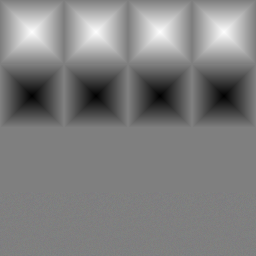
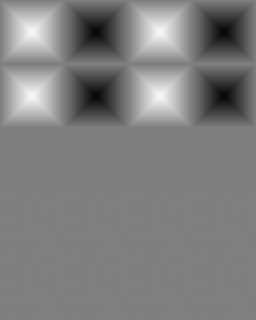
improve scene `patch` + lighting improvements (#15)
* added patch-light scene

* tune + bug fix

* up the steepness a bit

* better lighting

* steeper hills on patch_light

* readme

* readme

* steeper

* patch_light --> patch

* readme

* format

* back to match

* fix if

* format

Changed region(s): [[0.0, 0.0, 1.0, 0.5]]

diff --git a/mujoco_scenes/generate.py b/mujoco_scenes/generate.py
@@ -7,36 +7,43 @@ import numpy as np
 from PIL import Image
 
 
-def generate_patch_texture(patch_type: str, size: int) -> Image.Image:
+def generate_patch_texture(patch_type: str, size: int, col_idx: int = 0, amplitude: float = 1.0) -> Image.Image:
+    if patch_type == "hill-valley":
+        patch_type = "hill" if col_idx % 2 == 0 else "valley"
+
     match patch_type:
         case "rough":
             # Rough: random noise.
-            arr = (np.random.rand(size, size, 3) - 0.5) * 0.03 + 0.5
+            arr = (np.random.rand(size, size, 3) - 0.5) * 0.03 * amplitude + 0.5
 
         case "smooth":
             # Smooth: uniform gray texture (constant value).
             arr = np.ones((size, size, 3)) * 0.5
 
         case "hill":
-            # Hill: pyramid shape that rises from 0.5 at edges to 1.0 at center
+            # Hill: pyramid shape that rises from 0.5 at edges to peak at center
             x = np.linspace(-1, 1, size)
             y = np.linspace(-1, 1, size)
             xs, ys = np.meshgrid(x, y)
             # Create pyramid using manhattan distance
             r = np.maximum(np.abs(xs), np.abs(ys))
-            # Scale from 0.5 to 1.0
-            intensity = np.clip(1.0 - r, 0, 1) * 0.5 + 0.5
+            # Scale from 0.5 to peak (controlled by amplitude)
+            base = 0.5
+            peak_offset = 0.5 * amplitude
+            intensity = base + np.clip(peak_offset * (1.0 - r), 0, 1)
             arr = np.stack([intensity] * 3, axis=-1)
 
         case "valley":
-            # Valley: pyramid shape that drops from 0.5 at edges to 0.0 at center
+            # Valley: pyramid shape that drops from 0.5 at edges to bottom at center
             x = np.linspace(-1, 1, size)
             y = np.linspace(-1, 1, size)
             xs, ys = np.meshgrid(x, y)
             # Create pyramid using manhattan distance
             r = np.maximum(np.abs(xs), np.abs(ys))
-            # Scale from 0.5 to 0.0
-            intensity = np.clip(r, 0, 1) * 0.5
+            # Scale from 0.5 to bottom (controlled by amplitude)
+            base = 0.5
+            valley_depth = 0.5 * amplitude
+            intensity = base - np.clip(valley_depth * (1.0 - r), 0, 1)
             arr = np.stack([intensity] * 3, axis=-1)
 
         case _:
@@ -91,6 +98,30 @@ def main() -> None:
         default=1.0,
         help="Weight for 'valley' patch (default: 1.0)",
     )
+    parser.add_argument(
+        "--freq-hill-valley",
+        type=float,
+        default=1.0,
+        help="Weight for alternating 'hill-valley' patches (default: 1.0)",
+    )
+    parser.add_argument(
+        "--hill-amplitude",
+        type=float,
+        default=1.0,
+        help="Amplitude multiplier for hill patches (default: 1.0)",
+    )
+    parser.add_argument(
+        "--valley-amplitude",
+        type=float,
+        default=1.0,
+        help="Amplitude multiplier for valley patches (default: 1.0)",
+    )
+    parser.add_argument(
+        "--rough-amplitude",
+        type=float,
+        default=1.0,
+        help="Base level multiplier for rough patches (default: 1.0)",
+    )
     # Output file.
     parser.add_argument(
         "--output",
@@ -101,8 +132,14 @@ def main() -> None:
     args = parser.parse_args()
 
     # Define patch types in specific order
-    patch_types = ["hill", "valley", "smooth", "rough"]
-    frequencies = [args.freq_hill, args.freq_valley, args.freq_smooth, args.freq_rough]
+    patch_types = ["hill-valley", "hill", "valley", "smooth", "rough"]
+    frequencies = [
+        args.freq_hill_valley,
+        args.freq_hill,
+        args.freq_valley,
+        args.freq_smooth,
+        args.freq_rough,
+    ]
 
     # Calculate number of rows for each type based on frequencies
     total_freq = sum(frequencies)
@@ -116,7 +153,14 @@ def main() -> None:
     # Generate patch images programmatically
     patch_images = {}
     for p_type in patch_types:
-        patch_images[p_type] = generate_patch_texture(p_type, args.patch_size)
+        if p_type != "hill-valley":  # Skip hill-valley as it's generated per column
+            amplitude = {
+                "hill": args.hill_amplitude,
+                "valley": args.valley_amplitude,
+                "smooth": 1.0,
+                "rough": args.rough_amplitude,
+            }[p_type]
+            patch_images[p_type] = generate_patch_texture(p_type, args.patch_size, amplitude=amplitude)
 
     # Create a new blank image for the grid
     grid_width = args.cols * args.patch_size
@@ -125,12 +169,23 @@ def main() -> None:
 
     current_row = 0
     for patch_type, num_rows in zip(patch_types, rows_per_type):
-        patch_img = patch_images[patch_type]
-        for row in range(num_rows):
-            for j in range(args.cols):
-                x = j * args.patch_size
-                y = (current_row + row) * args.patch_size
-                grid_image.paste(patch_img, (x, y))
+        if patch_type == "hill-valley":
+            # Generate hill-valley patches for each column
+            for row in range(num_rows):
+                for j in range(args.cols):
+                    x = j * args.patch_size
+                    y = (current_row + row) * args.patch_size
+                    # Use appropriate amplitude based on whether it's a hill or valley
+                    amplitude = args.hill_amplitude if j % 2 == 0 else args.valley_amplitude
+                    patch_img = generate_patch_texture(patch_type, args.patch_size, j, amplitude=amplitude)
+                    grid_image.paste(patch_img, (x, y))
+        else:
+            patch_img = patch_images[patch_type]
+            for row in range(num_rows):
+                for j in range(args.cols):
+                    x = j * args.patch_size
+                    y = (current_row + row) * args.patch_size
+                    grid_image.paste(patch_img, (x, y))
         current_row += num_rows
 
     grid_image.save(args.output)

diff --git a/README.md b/README.md
@@ -16,3 +16,9 @@ model = load_mjmodel("path/to/robot.xml", "smooth")
 # To view the model, you can use:
 mujoco.viewer.launch(model)
 ```
+
+
+### Command to create scene `patch`
+```bash
+python generate.py --freq-hill 0 --freq-valley 0 --patch-size 64  --rows 5 --freq-hill-valley 2 --freq-rough 2  --rough-amplitude 1.0 --hill-amplitude 1.0 --valley-amplitude 1.0 --output templates/assets/patch_hfield.png
+```
